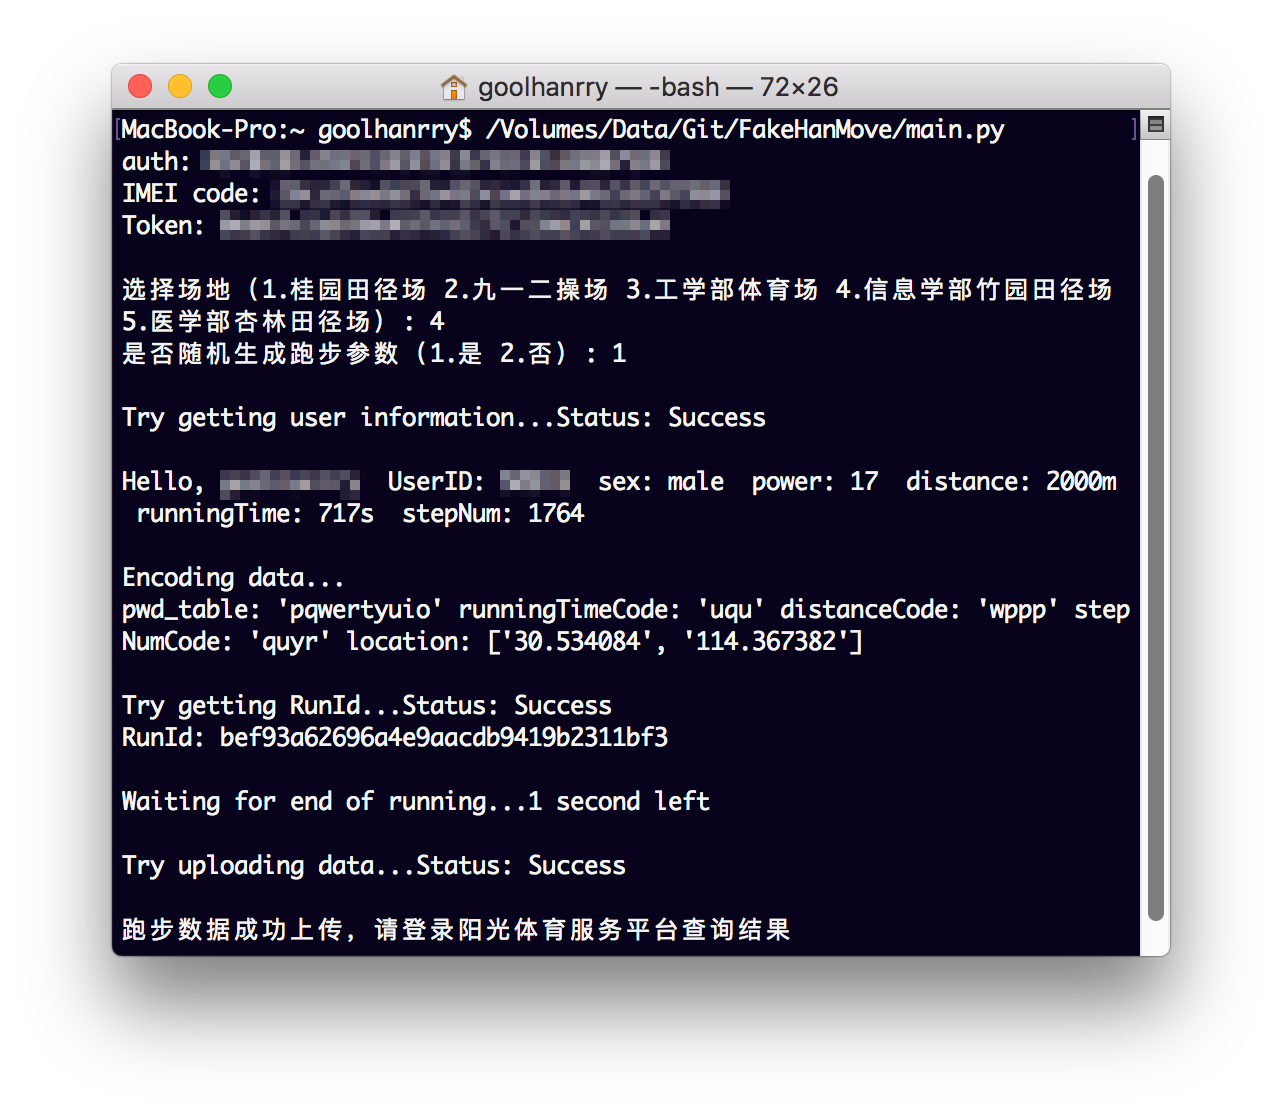
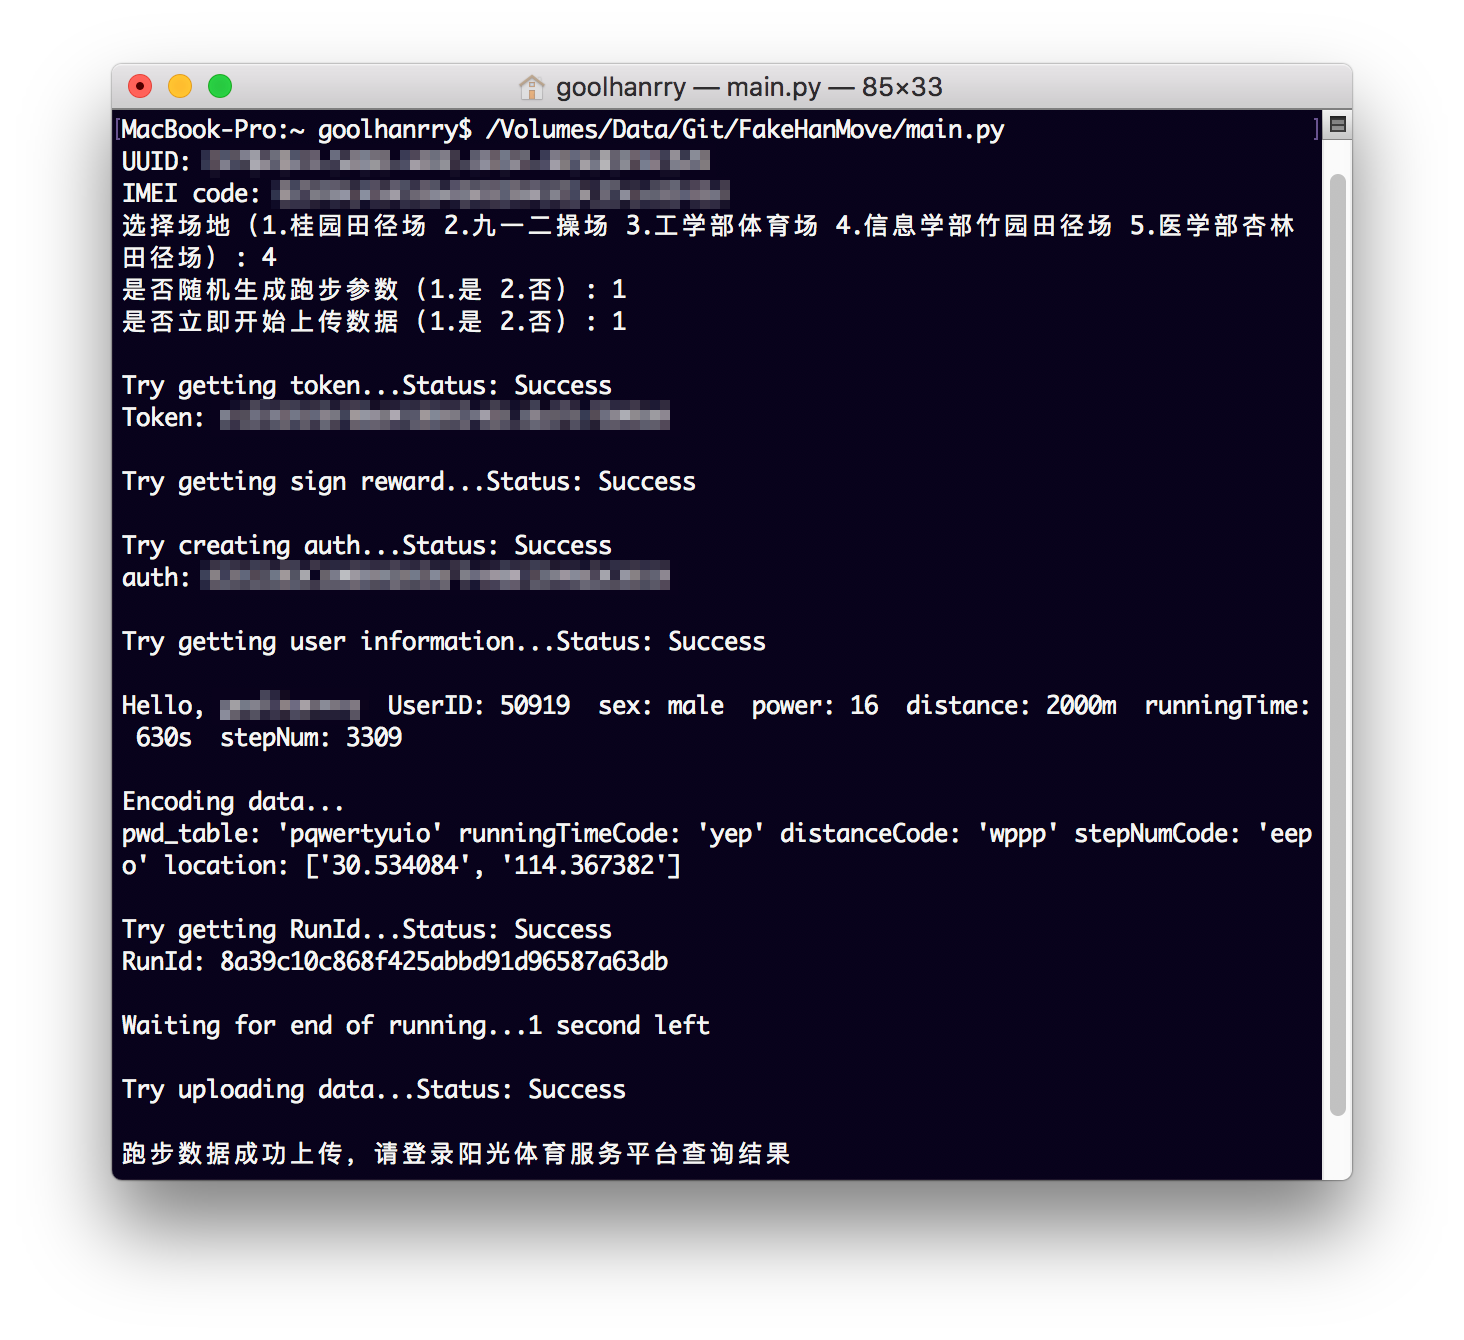
实现自动领取签到奖励

Changed region(s): [[0.0624, 0.0305, 0.936, 0.9444]]

diff --git a/main.py b/main.py
@@ -115,6 +115,25 @@ class HanMoveCracker(object):
             print('Connection lost')
             return False
 
+    def GetSignReward(self):
+        url = 'http://client1.aipao.me/api/' + self.token + '/QM_Users/GetSignReward'
+        headers = {'Host': 'client1.aipao.me', 'Accept': '*/*',
+                   'User-Agent': 'HanMoves/2.16 (iPhone; iOS 11.2.6; Scale/3.00)',
+                   'Accept-Language': 'zh-Hans-CN;q=1, en-CN;q=0.9',
+                   'Accept-Ecoding': 'gzip, deflate', 'Connection': 'keep-alive'}
+        print('\nTry getting sign reward...Status: ', end='')
+        try:
+            response = requests.get(url, headers=headers)
+            json = response.json()
+            print('Success' if json['Success'] else 'Failed')
+            if json['Success']:
+                return True
+            else:
+                return False
+        except:
+            print('Connection lost')
+            return False
+
     def CreateAuth(self):
         print('\nTry creating auth...Status: ', end='')
         try:
@@ -229,6 +248,7 @@ while True:
         HMC.RefreshData()
 
     if HMC.GetToken():
+        HMC.GetSignReward()
         HMC.CreateAuth()
         HMC.GetUsrInf(HMC.distance)
         HMC.EncodeData()
